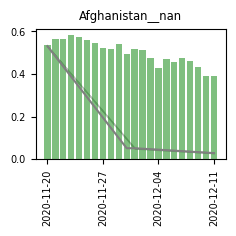
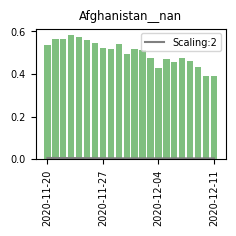
investigating scaling effect

diff --git a/predict/rf/predict.py b/predict/rf/predict.py
@@ -198,130 +198,139 @@ def predict(start_date, end_date, path_to_ips_file, output_file_path):
         adjusted_data_gdf['cumulative_smoothed_cases']=adjusted_data_gdf['cumulative_smoothed_cases']/(population/100000)
 
         #Get historical NPIs
-        historical_npis_g = np.array(adjusted_data_gdf[NPI_COLS])
+        historical_npis_g = np.array(adjusted_data_gdf[NPI_COLS]).copy()
         #Get other daily features
-        adjusted_additional_g = np.array(adjusted_data_gdf[additional_features[:9]])
-        #Get future NPIs
-        future_npis = np.array(ips_gdf[NPI_COLS])
+        adjusted_additional_g = np.array(adjusted_data_gdf[additional_features[:9]]).copy()
 
-        # Make prediction for each requested day
-        geo_preds = []
-        geo_preds_upper = []
-        geo_preds_lower = []
-        days_ahead = 0
-        prev_std=0 #Std deviation
-        prediction_period = 0
-        while current_date <= end_date:
-            if prediction_period<1:
-                pred_days=11
-            else:
-                pred_days=21
-            prediction_period += 1
-            # Prepare data - make check so that enough previous data exists
-            #The np array has to be copied!!!!!!!!
-            #Otherwise there is a direct link to the adjusted_additional_g which means
-            #that both arrays are updated simultaneously
-
-            #Get change over the past NB_LOOKBACK_DAYS. The predictions are the medians = 11 days ahead
-            X_additional = adjusted_additional_g[-NB_LOOKBACK_DAYS:].copy() #The first col is 'smoothed_cases', then 'cumulative_smoothed_cases',
-            case_in_end = X_additional[-1,0]
-            #period_change = X_additional[-1,1]-X_additional[0,1]
-            case_medians = np.median(X_additional[:,:2],axis=0)
-            X_additional = np.average(X_additional,axis=0)
-            X_additional[:2]=case_medians
-
-            #Get NPIS
-            X_npis = historical_npis_g[-NB_LOOKBACK_DAYS:].copy()
-            X_npis = np.average(X_npis,axis=0)
-
-            X = np.concatenate([X_additional,X_npis])
-            #Add
-            X = np.append(X,[death_to_case_scale,case_death_delay,gross_net_income,population_density,
-                            #period_change,
-                            pdi, idv, mas, uai, ltowvs, ivr,upop, pop65, gdp, obesity,
-                            cancer, smoking_deaths, pneumonia_dr, air_pollution_deaths, co2_emission,
-                            air_transport, population])
-
-            # Make the prediction from all 5 models
-            model_preds = []
-            if X[0]>threshold:
-                for model in high_models:
-                    model_preds.append(model.predict(np.array([X]))[0])
-            else:
-                for model in low_models:
-                    model_preds.append(model.predict(np.array([X]))[0])
-
-
-            pred = np.power(e,model_preds)
-            pred_av = np.average(pred)
-            pred_std = np.std(pred)
-            #Order the predictions to run through the predicted mean
-            #It looks like the median in the nex section is mainly driven
-            #by the end of that section --> run from case in end of input to pred
-            #pred_half1 = np.arange(case_in_end,pred_av,(pred_av-case_in_end)/(pred_days))
-            #pred_half2 = np.arange(pred_av,pred_av+(pred_av-case_in_end),(pred_av-case_in_end)/(pred_days))
-            #pred = np.concatenate([pred_half1,pred_half2])
-            pred = np.arange(case_in_end,pred_av,(pred_av-case_in_end)/(pred_days))[:pred_days]
-            pred_lower = np.arange(case_in_end-4*prev_std,pred[-1]-4*pred_std,((pred[-1]-4*pred_std)-(case_in_end-4*prev_std))/pred_days)[:pred_days]
-            pred_upper = np.arange(case_in_end+4*prev_std,pred[-1]+4*pred_std,((pred[-1]+4*pred_std)-(case_in_end+4*prev_std))/pred_days)[:pred_days]
-            prev_std = pred_std
-
-            #Min 0
-            pred[pred<0]=0
-            pred_lower[pred_lower<0]=0
-            pred_upper[pred_upper<0]=0
-            #Do not allow predicting more cases than 1/21 of population per day
-            pred[pred>((1/pred_days*population)/(population/100000))]=(1/pred_days*population)/(population/100000)
-
-            # Add if it's a requested date
-            if current_date+ np.timedelta64(pred_days, 'D') >= start_date:
-                #Append the predicted dates
-                days_for_pred =  current_date+ np.timedelta64(pred_days, 'D')-start_date
-                geo_preds.extend(pred[-days_for_pred.days:])
-                geo_preds_lower.extend(pred_lower[-days_for_pred.days:])
-                geo_preds_upper.extend(pred_upper[-days_for_pred.days:])
-
-            else:
-                print(current_date.strftime('%Y-%m-%d'), pred, "- Skipped (intermediate missing daily cases)")
-
-            # Append the prediction and npi's for the next x predicted days
-            # in order to rollout predictions for further days.
-            future_additional = np.repeat(np.array([adjusted_additional_g[-1,:].copy()]),len(pred),axis=0)
-            future_additional[:,0]=pred #add predicted cases
-            future_additional[:,1]=np.cumsum(pred) #add predicted cumulative cases
-            #!!!!!!!!!!!!!!!
-            #Look up monthly temperature for predicted dates: 'monthly_temperature'
-            #!!!!!!!!!!!!!!!
-
-            adjusted_additional_g = np.append(adjusted_additional_g, future_additional,axis=0)
-            historical_npis_g = np.append(historical_npis_g, future_npis[days_ahead:days_ahead + pred_days], axis=0)
-            # Move to next period
-            current_date = current_date + np.timedelta64(pred_days, 'D')
-            days_ahead += pred_days
-
-        # Create geo_pred_df with pred column
-        geo_pred_df = ips_gdf[ID_COLS].copy()
-        geo_pred_df['PredictedDailyNewCases'] = np.array(geo_preds[:len(geo_pred_df)])#*(population/100000) Adjust for population
-
-        geo_pred_df['PredictedDailyNewCases_lower'] = np.array(geo_preds_lower[:len(geo_pred_df)])
-        geo_pred_df['PredictedDailyNewCases_upper'] = np.array(geo_preds_upper[:len(geo_pred_df)])
-        #Check
-        adjusted_data_gdf = adjusted_data[adjusted_data['GeoID'] == g]
-        adjusted_data_gdf.at[:,'smoothed_cases']=adjusted_data_gdf['smoothed_cases']/(population/100000)
-        geo_pred_df = pd.merge(geo_pred_df,adjusted_data_gdf.loc[:,('Date','smoothed_cases')],on='Date',how='left')
-        geo_pred_df['population']=population
-        #Vis
+        #Plot
         fig,ax = plt.subplots(figsize=(6/2.54,6/2.54))
-        plt.plot(np.arange(len(geo_pred_df)),geo_pred_df['PredictedDailyNewCases'],color='grey')
-        plt.fill_between(np.arange(len(geo_pred_df)),geo_pred_df['PredictedDailyNewCases_lower'],geo_pred_df['PredictedDailyNewCases_upper'],alpha=0.5,color='grey')
-        plt.bar(np.arange(len(geo_pred_df)),geo_pred_df['smoothed_cases'],color='g',alpha=0.5)
+        for npi_scale in [1,2]:
+
+            # Make prediction for each requested day
+            # Start predicting from start_date, unless there's a gap since last known date
+            current_date = min(last_known_date + np.timedelta64(1, 'D'), start_date)
+            geo_preds = []
+            geo_preds_upper = []
+            geo_preds_lower = []
+            days_ahead = 0
+            prev_std=0 #Std deviation
+            prediction_period = 0
+            #Get future NPIs
+            future_npis = np.array(ips_gdf[NPI_COLS]).copy()*npi_scale
+            while current_date <= end_date:
+                if prediction_period<1:
+                    pred_days=11
+                else:
+                    pred_days=21
+                prediction_period += 1
+                # Prepare data - make check so that enough previous data exists
+                #The np array has to be copied!!!!!!!!
+                #Otherwise there is a direct link to the adjusted_additional_g which means
+                #that both arrays are updated simultaneously
+
+                #Get change over the past NB_LOOKBACK_DAYS. The predictions are the medians = 11 days ahead
+                X_additional = adjusted_additional_g[-NB_LOOKBACK_DAYS:].copy() #The first col is 'smoothed_cases', then 'cumulative_smoothed_cases',
+                case_in_end = X_additional[-1,0]
+                #period_change = X_additional[-1,1]-X_additional[0,1]
+                case_medians = np.median(X_additional[:,:2],axis=0)
+                X_additional = np.average(X_additional,axis=0)
+                X_additional[:2]=case_medians
+
+                #Get NPIS
+                X_npis = historical_npis_g[-NB_LOOKBACK_DAYS:].copy()
+                X_npis = np.average(X_npis,axis=0)
+
+                X = np.concatenate([X_additional,X_npis])
+                #Add
+                X = np.append(X,[death_to_case_scale,case_death_delay,gross_net_income,population_density,
+                                #period_change,
+                                pdi, idv, mas, uai, ltowvs, ivr,upop, pop65, gdp, obesity,
+                                cancer, smoking_deaths, pneumonia_dr, air_pollution_deaths, co2_emission,
+                                air_transport, population])
+
+                # Make the prediction from all 5 models
+                model_preds = []
+                if X[0]>threshold:
+                    for model in high_models:
+                        model_preds.append(model.predict(np.array([X]))[0])
+                else:
+                    for model in low_models:
+                        model_preds.append(model.predict(np.array([X]))[0])
+
+
+                pred = np.power(e,model_preds)
+                pred_av = np.average(pred)
+                pred_std = np.std(pred)
+                #Order the predictions to run through the predicted mean
+                #It looks like the median in the nex section is mainly driven
+                #by the end of that section --> run from case in end of input to pred
+                #pred_half1 = np.arange(case_in_end,pred_av,(pred_av-case_in_end)/(pred_days))
+                #pred_half2 = np.arange(pred_av,pred_av+(pred_av-case_in_end),(pred_av-case_in_end)/(pred_days))
+                #pred = np.concatenate([pred_half1,pred_half2])
+                pred = np.arange(case_in_end,pred_av,(pred_av-case_in_end)/(pred_days))[:pred_days]
+                pred_lower = np.arange(case_in_end-4*prev_std,pred[-1]-4*pred_std,((pred[-1]-4*pred_std)-(case_in_end-4*prev_std))/pred_days)[:pred_days]
+                pred_upper = np.arange(case_in_end+4*prev_std,pred[-1]+4*pred_std,((pred[-1]+4*pred_std)-(case_in_end+4*prev_std))/pred_days)[:pred_days]
+                prev_std = pred_std
+
+                #Min 0
+                pred[pred<0]=0
+                pred_lower[pred_lower<0]=0
+                pred_upper[pred_upper<0]=0
+                #Do not allow predicting more cases than 1/21 of population per day
+                pred[pred>((1/pred_days*population)/(population/100000))]=(1/pred_days*population)/(population/100000)
+
+                # Add if it's a requested date
+                if current_date+ np.timedelta64(pred_days, 'D') >= start_date:
+                    #Append the predicted dates
+                    days_for_pred =  current_date+ np.timedelta64(pred_days, 'D')-start_date
+                    geo_preds.extend(pred[-days_for_pred.days:])
+                    geo_preds_lower.extend(pred_lower[-days_for_pred.days:])
+                    geo_preds_upper.extend(pred_upper[-days_for_pred.days:])
+
+                else:
+                    print(current_date.strftime('%Y-%m-%d'), pred, "- Skipped (intermediate missing daily cases)")
+
+                # Append the prediction and npi's for the next x predicted days
+                # in order to rollout predictions for further days.
+                future_additional = np.repeat(np.array([adjusted_additional_g[-1,:].copy()]),len(pred),axis=0)
+                future_additional[:,0]=pred #add predicted cases
+                future_additional[:,1]=np.cumsum(pred) #add predicted cumulative cases
+                #!!!!!!!!!!!!!!!
+                #Look up monthly temperature for predicted dates: 'monthly_temperature'
+                #!!!!!!!!!!!!!!!
+
+                adjusted_additional_g = np.append(adjusted_additional_g, future_additional,axis=0)
+                historical_npis_g = np.append(historical_npis_g, future_npis[days_ahead:days_ahead + pred_days], axis=0)
+                # Move to next period
+                current_date = current_date + np.timedelta64(pred_days, 'D')
+                days_ahead += pred_days
+
+
+            # Create geo_pred_df with pred column
+            geo_pred_df = ips_gdf[ID_COLS].copy()
+            geo_pred_df['PredictedDailyNewCases'+str(npi_scale)] = np.array(geo_preds[:len(geo_pred_df)])#*(population/100000) Adjust for population
+            geo_pred_df['PredictedDailyNewCases_lower'+str(npi_scale)] = np.array(geo_preds_lower[:len(geo_pred_df)])
+            geo_pred_df['PredictedDailyNewCases_upper'+str(npi_scale)] = np.array(geo_preds_upper[:len(geo_pred_df)])
+            #Check
+            adjusted_data_gdf = adjusted_data[adjusted_data['GeoID'] == g]
+            adjusted_data_gdf.at[:,'smoothed_cases']=adjusted_data_gdf['smoothed_cases']/(population/100000)
+            geo_pred_df = pd.merge(geo_pred_df,adjusted_data_gdf.loc[:,('Date','smoothed_cases')],on='Date',how='left')
+            geo_pred_df['population']=population
+            #Vis
+
+            plt.plot(np.arange(len(geo_pred_df)),geo_pred_df['PredictedDailyNewCases'+str(npi_scale)],color='grey',label='Scaling:'+str(npi_scale))
+            plt.fill_between(np.arange(len(geo_pred_df)),geo_pred_df['PredictedDailyNewCases_lower'+str(npi_scale)],geo_pred_df['PredictedDailyNewCases_upper'+str(npi_scale)],alpha=0.5,color='grey')
+            plt.bar(np.arange(len(geo_pred_df)),geo_pred_df['smoothed_cases'],color='g',alpha=0.5)
+
         plt.xticks(ticks=np.arange(0,len(geo_pred_df),7),labels= np.arange(start_date,end_date+np.timedelta64(1,'D'),np.timedelta64(7,'D'),dtype='datetime64[D]'),rotation='vertical')
         plt.title(g)
+        plt.legend()
         plt.tight_layout()
         plt.savefig('./plots/'+g+'.png',format='png')
         plt.close()
         #Save
         geo_pred_dfs.append(geo_pred_df)
+
 
 
     #4. Obtain output

diff --git a/models/iterative/iter_net.py b/models/iterative/iter_net.py
@@ -339,11 +339,7 @@ def build_net(n1,n2,dim1,dim2,dim3):
     #Concat preds 2 with inp 3
     pred_in3 = L.Concatenate()([inp3,pred_step2])
     pred_step3 = L.BatchNormalization()(shared_dense3(shared_dense2(shared_dense1(pred_in3))))
-
-    #Attentions
-    attention1 = L.Attention(name="a1")([shared_dense1(inp1),shared_dense1(inp1)])
-    attention2 = L.Attention(name="a2")([shared_dense1(pred_in2),shared_dense1(pred_in2)])
-    attention3 = L.Attention(name="a3")([shared_dense1(pred_in3),shared_dense1(pred_in3)])
+    #Concat preds
     preds = L.Concatenate()([pred_step1,pred_step2,pred_step3])
 
     model = M.Model([inp1,inp2,inp3], preds, name="Dense")
@@ -364,7 +360,7 @@ def fit_data(X1,X2,X3,y,mode,outdir):
 
     #Get net parameters
     BATCH_SIZE=256
-    EPOCHS=2000
+    EPOCHS=500
     n1=X1.shape[1] #Nodes layer 1
     n2=X1.shape[1] #Nodes layer 2
 
@@ -403,13 +399,14 @@ def fit_data(X1,X2,X3,y,mode,outdir):
         #get_activations(net, [X1[val_idx],X2[val_idx], X3[val_idx]])
 
         preds = net.predict([X1[val_idx],X2[val_idx], X3[val_idx]])
+        preds[preds<0]=0
         plt.hist(preds,color=['b','b','b'],alpha=0.5)
         plt.hist(y[val_idx],color=['r','r','r'],alpha=0.5)
         plt.savefig(outdir+'hist_fold'+str(fold+1)+'.png',format='png')
         plt.close()
-        preds = np.power(e,preds)
-        true = np.power(e,y[val_idx])
-
+        #preds = np.power(e,preds)
+        #true = np.power(e,y[val_idx])
+        true = y[val_idx]
         for i in range(preds.shape[1]):
             errors.append(np.average(np.absolute(preds[:,i]-true[:,i])))
             corrs.append(pearsonr(preds[:,i],true[:,i])[0])
@@ -479,7 +476,7 @@ X1,X2,X3,y = get_features(adjusted_data,train_days,forecast_days,num_pred_period
 
 #Fit high
 #Convert to log for training
-fit_data(X1,X2,X3,np.log(y+0.001),'high',outdir)
+fit_data(X1,X2,X3,y,'high',outdir)
 
 pdb.set_trace()
 pdb.set_trace()
